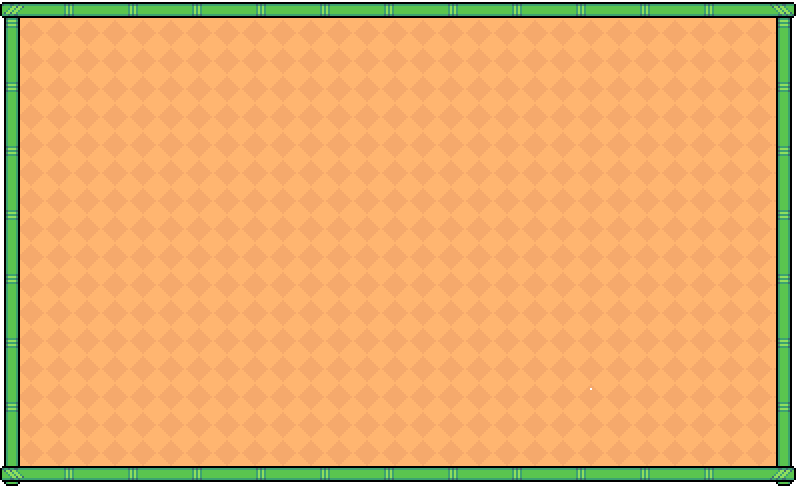
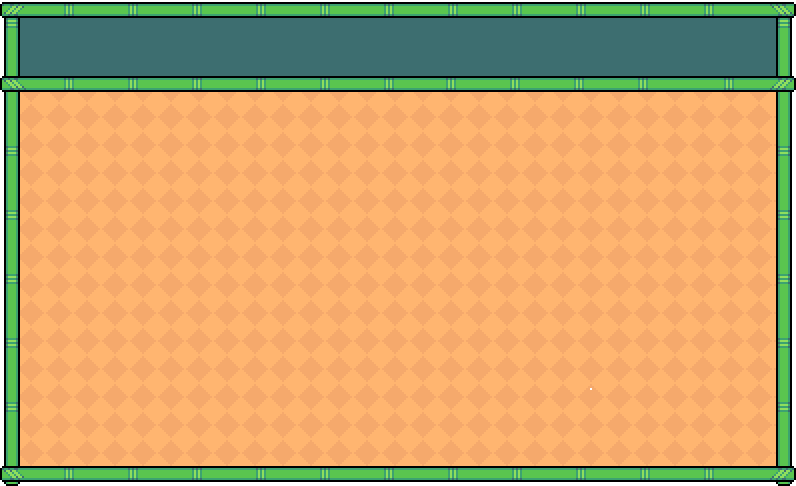
Add LoginRegister Menu and update setting UI

Changed region(s): [[0.0, 0.0309, 1.0, 0.216]]

diff --git a/source/core/src/main/com/csse3200/game/components/mainmenu/MainMenuDisplay.java b/source/core/src/main/com/csse3200/game/components/mainmenu/MainMenuDisplay.java
@@ -17,6 +17,7 @@ import com.badlogic.gdx.scenes.scene2d.utils.ChangeListener;
 import com.badlogic.gdx.scenes.scene2d.utils.ClickListener;
 import com.badlogic.gdx.scenes.scene2d.utils.Drawable;
 import com.badlogic.gdx.scenes.scene2d.utils.TextureRegionDrawable;
+import com.csse3200.game.components.login.LoginRegisterDisplay;
 import com.csse3200.game.services.ServiceLocator;
 import com.csse3200.game.components.settingsmenu.SettingsMenuDisplay;
 import com.csse3200.game.ui.DialogueBox;
@@ -35,10 +36,13 @@ public class MainMenuDisplay extends UIComponent {
     private static final float Z_INDEX = 2f;
     private Table table;
     private Table settingMenu;
+
     private Table userTable;
+    private Table loginRegisterTable;
     private SettingsMenuDisplay settingsMenuDisplay;
+    private LoginRegisterDisplay loginRegisterDisplay;
     private TextButton toggleWindowBtn;
-    private Texture backgroundTexture;
+    private Texture lightBackgroundTexture;
     private Texture settingBackground;
     private Texture userTableBackground;
     private Button muteButton;  // Mute toggle button with texture
@@ -61,9 +65,6 @@ public class MainMenuDisplay extends UIComponent {
         super.create();
         logger.info("Creating MainMenuDisplay");
         loadTextures();  // Load textures for the mute button
-        settingBackground = new Texture("images/SettingBackground.png");
-        backgroundTexture = new Texture("images/BackgroundSplash.png");
-        userTableBackground = new Texture("images/UserTable.png");
         logger.info("Background texture loaded");
         addActors();
         animateAnimals();
@@ -74,6 +75,9 @@ public class MainMenuDisplay extends UIComponent {
      * Load the textures for the mute and unmute button states.
      */
     private void loadTextures() {
+        settingBackground = new Texture("images/SettingBackground.png");
+        lightBackgroundTexture = new Texture("images/BackgroundSplash.png");
+        userTableBackground = new Texture("images/UserTable.png");
         muteTexture = new Texture("images/sound_off.png");  // Add your mute icon here
         unmuteTexture = new Texture("images/sound_on.png");  // Add your unmute icon here
         dog2Texture = new Texture("images/dog2.png");
@@ -135,6 +139,7 @@ public class MainMenuDisplay extends UIComponent {
 
         settingMenu = new Table();
         userTable = new Table();
+        loginRegisterTable = new Table();
         // Create Image actors for the animals
         //dog2Image = new Image(dog2Texture);
         //crocImage = new Image(crocTexture);
@@ -261,6 +266,7 @@ public class MainMenuDisplay extends UIComponent {
 
         //Adds the user logo to program
         addUserTable();
+        addLoginRegisterTable();
     }
 
     /**
@@ -305,14 +311,14 @@ public class MainMenuDisplay extends UIComponent {
      * Applies Night Mode by changing the background texture to the night version.
      */
     private void applyNightMode() {
-        backgroundTexture = nightBackgroundTexture;  // Set the night mode background.
+        lightBackgroundTexture = nightBackgroundTexture;  // Set the night mode background.
     }
 
     /**
      * Applies Day Mode by changing the background texture to the default day version.
      */
     private void applyDayMode() {
-        backgroundTexture = new Texture("images/BackgroundSplash.png");  // Set the day mode background.
+        lightBackgroundTexture = new Texture("images/BackgroundSplash.png");  // Set the day mode background.
     }
 
     private void updateMuteButtonIcon() {
@@ -324,32 +330,54 @@ public class MainMenuDisplay extends UIComponent {
     }
 
     private void addUserTable() {
-
-        Drawable settingDrawable = new TextureRegionDrawable(new TextureRegion(userTableBackground));
-
         float screenWidth = Gdx.graphics.getWidth();
         float screenHeight = Gdx.graphics.getHeight();
 
         userTable.setSize(122, 522);
 
-        userTable.setBackground(settingDrawable);
         userTable.setVisible(true);
 
         userTable.setPosition(screenWidth - 150, screenHeight - 600);
         Button profileBtn = new Button(new TextureRegionDrawable(new TextureRegion(new Texture("images/UserIcon.png"))));
-        Button mailBtn = new Button(new TextureRegionDrawable(new TextureRegion(new Texture("images/MailIcon.png"))));
-        Button settingBtn = new Button(new TextureRegionDrawable(new TextureRegion(new Texture("images/SettingIcon.png"))));
-        Button leaderboardBtn = new Button(new TextureRegionDrawable(new TextureRegion(new Texture("images/LeaderboardIcon.png"))));
         userTable.add(profileBtn).size(60, 60).top().padTop(30).expandY();
-        userTable.row();
-        userTable.add(mailBtn).size(50, 40).top().padTop(5).expandY();
-        userTable.row();
-        userTable.add(settingBtn).size(50, 50).top().padTop(5).expandY();
-        userTable.row();
-        userTable.add(leaderboardBtn).size(50, 50).top().padTop(5).expandY();
-        userTable.row();
+
+        profileBtn.addListener(new ChangeListener() {
+            @Override
+            public void changed(ChangeEvent event, Actor actor) {
+                loginRegisterTable.setVisible(true);
+            }
+        });
 
         stage.addActor(userTable);
+    }
+
+    private void addLoginRegisterTable() {
+        loginRegisterDisplay = new LoginRegisterDisplay();
+        loginRegisterTable = loginRegisterDisplay.makeLoginRegisterTable();
+        loginRegisterTable.setVisible(false);
+        loginRegisterTable.setSize(663, 405);
+
+        float screenWidth = Gdx.graphics.getWidth();
+        float screenHeight = Gdx.graphics.getHeight();
+
+        // Center the menu on the screen
+        loginRegisterTable.setPosition(
+                (screenWidth - loginRegisterTable.getWidth()) / 2,
+                (screenHeight - loginRegisterTable.getHeight()) / 2
+        );
+
+        stage.addActor(loginRegisterTable);
+    }
+
+    public void updateLoginRegisterTable() {
+        float screenWidth = Gdx.graphics.getWidth();
+        float screenHeight = Gdx.graphics.getHeight();
+
+        // Center the menu on the screen
+        loginRegisterTable.setPosition(
+                (screenWidth - loginRegisterTable.getWidth()) / 2,
+                (screenHeight - loginRegisterTable.getHeight()) / 2
+        );
     }
 
     public void updateUserTable() {
@@ -603,7 +631,7 @@ public class MainMenuDisplay extends UIComponent {
         float screenWidth = Gdx.graphics.getWidth();
         float screenHeight = Gdx.graphics.getHeight();
 
-        settingMenu.setSize(796, 486);
+        settingMenu.setSize(663, 405);
 
         settingMenu.setBackground(settingDrawable);
         settingMenu.setVisible(false);
@@ -611,13 +639,13 @@ public class MainMenuDisplay extends UIComponent {
         Table topTable = new Table();
         topTable.top().padTop(10);
 
-        Label title = new Label("Settings", skin, "title");
+        Label title = new Label("Settings", skin, "title-white");
 
-        topTable.add(title).expandX().center().padTop(10);
+        topTable.add(title).expandX().center().padTop(5);
         topTable.row();
 
-        TextButton closeButton = new TextButton("X", skin);
-        topTable.add(closeButton).size(40, 40).right().expandX().padRight(30).padTop(-30);
+        Button closeButton = new Button(new TextureRegionDrawable(new TextureRegion(new Texture("images/CloseButton.png"))));
+        topTable.add(closeButton).size(80, 80).right().expandX().padRight(-25).padTop(-110);
 
         settingsMenuDisplay = new SettingsMenuDisplay();
         Table contentTable = settingsMenuDisplay.makeSettingsTable();
@@ -762,7 +790,7 @@ public class MainMenuDisplay extends UIComponent {
     public void draw(SpriteBatch batch) {
         batch = new SpriteBatch();
         batch.begin();
-        batch.draw(backgroundTexture, 0, 0, Gdx.graphics.getWidth(), Gdx.graphics.getHeight());
+        batch.draw(lightBackgroundTexture, 0, 0, Gdx.graphics.getWidth(), Gdx.graphics.getHeight());
         batch.end();
     }
 

diff --git a/source/core/src/main/com/csse3200/game/components/login/LoginRegisterDisplay.java b/source/core/src/main/com/csse3200/game/components/login/LoginRegisterDisplay.java
@@ -1,0 +1,157 @@
+package com.csse3200.game.components.login;
+
+import com.badlogic.gdx.graphics.Color;
+import com.badlogic.gdx.graphics.Texture;
+import com.badlogic.gdx.graphics.g2d.SpriteBatch;
+import com.badlogic.gdx.graphics.g2d.TextureRegion;
+import com.badlogic.gdx.scenes.scene2d.Actor;
+import com.badlogic.gdx.scenes.scene2d.ui.Button;
+import com.badlogic.gdx.scenes.scene2d.ui.Label;
+import com.badlogic.gdx.scenes.scene2d.ui.ProgressBar;
+import com.badlogic.gdx.scenes.scene2d.ui.Skin;
+import com.badlogic.gdx.scenes.scene2d.ui.Table;
+import com.badlogic.gdx.scenes.scene2d.ui.TextButton;
+import com.badlogic.gdx.scenes.scene2d.ui.TextField;
+import com.badlogic.gdx.scenes.scene2d.utils.ChangeListener;
+import com.badlogic.gdx.scenes.scene2d.utils.TextureRegionDrawable;
+import com.csse3200.game.ui.UIComponent;
+import org.slf4j.Logger;
+import org.slf4j.LoggerFactory;
+import com.csse3200.game.components.settingsmenu.UserSettings;
+
+import java.awt.*;
+
+/**
+ * A UI component for displaying the Main menu.
+ */
+public class LoginRegisterDisplay extends UIComponent {
+    private static final Logger logger = LoggerFactory.getLogger(LoginRegisterDisplay.class);
+    private static final float Z_INDEX = 2f;
+    private Table table;
+    private Table topTable;
+    private Table contentTable;
+    public ProgressBar progressBar;
+    private Label title;
+    private TextField usernameField;
+    private TextField passwordField;
+    private TextField confirmPasswordField;
+    private TextButton submitButton;
+    private TextButton switchButton;
+    private Button closeButton;
+    private boolean isLoginMode = true;
+
+    public LoginRegisterDisplay() {
+        super();
+    }
+
+    public Table makeLoginRegisterTable() {// Create table for layout
+        table = new Table();
+        topTable = new Table();
+        contentTable = new Table();
+        table.setBackground(new TextureRegionDrawable(new TextureRegion(new Texture("images/SettingBackground.png"))));
+        table.setSize(663, 405);;
+
+        closeButton = new Button(new TextureRegionDrawable(new TextureRegion(new Texture("images/CloseButton.png"))));
+
+        title = new Label("Login", skin, "title-white");
+        usernameField = new TextField("", skin);
+        passwordField = new TextField("", skin);
+        passwordField.setPasswordMode(true);
+        passwordField.setPasswordCharacter('*');
+        confirmPasswordField = new TextField("", skin);
+        confirmPasswordField.setPasswordMode(true);
+        confirmPasswordField.setPasswordCharacter('*');
+
+
+
+
+        submitButton = new TextButton("Submit", skin);
+        switchButton = new TextButton("Switch to Register", skin);
+
+        switchButton.addListener(new ChangeListener() {
+            @Override
+            public void changed(ChangeEvent changeEvent, Actor actor) {
+                logger.info("Switch button clicked");
+                isLoginMode = !isLoginMode;
+                topTable.clear();
+                contentTable.clear();
+                updateUI();
+            }
+        });
+
+        closeButton.addListener(new ChangeListener() {
+            @Override
+            public void changed(ChangeEvent changeEvent, Actor actor) {
+                logger.info("Close button clicked");
+                table.setVisible(false);
+            }
+        });
+        updateUI();
+
+        return table;
+    }
+
+    private void updateUI() {
+        table.clear();  // Clear the table to re-add elements
+
+        // Update title
+        if (isLoginMode) {
+            title.setText("Login");
+        } else {
+            title.setText("Register");
+        }
+
+        topTable.top().padTop(10);
+        topTable.add(title).expandX().center().padTop(5);
+        topTable.row();
+        topTable.add(closeButton).size(80, 80).right().expandX().padRight(-25).padTop(-110);
+
+        // Add title, username, and password fields
+        contentTable.add(new Label("Username:", skin)).padRight(10);
+        contentTable.add(usernameField).width(200).padBottom(10);
+        contentTable.row();
+        contentTable.add(new Label("Password:", skin)).padRight(10);
+        contentTable.add(passwordField).width(200).padBottom(10);
+        contentTable.row();
+        // If it's the register screen, add the confirm password field
+        if (!isLoginMode) {
+            contentTable.add(new Label("Confirm Password:", skin)).padRight(10);
+            contentTable.add(confirmPasswordField).width(200).padBottom(10);
+            contentTable.row();
+        }
+
+
+        // Add submit and switch buttons
+        contentTable.add(submitButton).colspan(2).padBottom(10);
+        contentTable.row();
+        contentTable.add(switchButton).colspan(2);
+
+        // Update switch button text
+        switchButton.setText(isLoginMode ? "Switch to Register" : "Switch to Login");
+
+
+        table.add(topTable).expandX().fillX(); // Top-right table
+        table.row().padTop(30f);
+        table.add(contentTable).expandX().expandY().padLeft(50);
+        table.row().padTop(30f);
+    }
+    @Override
+    public void update() {
+    }
+
+    @Override
+    public void draw(SpriteBatch batch) {
+        // draw is handled by the stage
+    }
+
+    @Override
+    public float getZIndex() {
+        return Z_INDEX;
+    }
+
+    @Override
+    public void dispose() {
+        table.clear();
+        super.dispose();
+    }
+}

diff --git a/source/core/src/main/com/csse3200/game/components/loading/LoadingDisplay.java b/source/core/src/main/com/csse3200/game/components/loading/LoadingDisplay.java
@@ -35,9 +35,8 @@ public class LoadingDisplay extends UIComponent {
         progress = 0;
         progressBar = new ProgressBar(0, 100, 1, false, skin);
         progressBar.setValue(0);
-        progressBar.setColor(0.2f, 0.7f, 0.3f,1);
         loadingLabel = new Label("Loading..." + progress + "%", skin, "large-white");
-        tipsLabel = new Label("If you're having trobule winning in combat, try getting better at the game.", skin, "default-white");
+        tipsLabel = new Label("Tips: If you're having trobule winning in combat, try getting better at the game.", skin, "default-white");
     }
 
     @Override
@@ -49,9 +48,9 @@ public class LoadingDisplay extends UIComponent {
     private void addActors() {
         table = new Table();
         table.setFillParent(true);
-        table.setBackground(new TextureRegionDrawable(new TextureRegion(new Texture("images/BackgroundSplashBasic.png"))));
+        table.setBackground(new TextureRegionDrawable(new TextureRegion(new Texture("images/SplashScreen/SplashTitleNight.png"))));
 
-        table.add(loadingLabel).padTop(300);
+        table.add(loadingLabel).padTop(350);
         table.row();
         table.add(progressBar).width(300).padTop(20);
         table.row();

diff --git a/source/core/src/main/com/csse3200/game/screens/MainMenuScreen.java b/source/core/src/main/com/csse3200/game/screens/MainMenuScreen.java
@@ -56,6 +56,7 @@ public class MainMenuScreen extends ScreenAdapter {
     renderer.resize(width, height);
     mainMenuDisplay.updateUserTable();
     mainMenuDisplay.updateSettingMenu();
+    mainMenuDisplay.updateLoginRegisterTable();
     logger.trace("Resized renderer: ({} x {})", width, height);
   }
 
